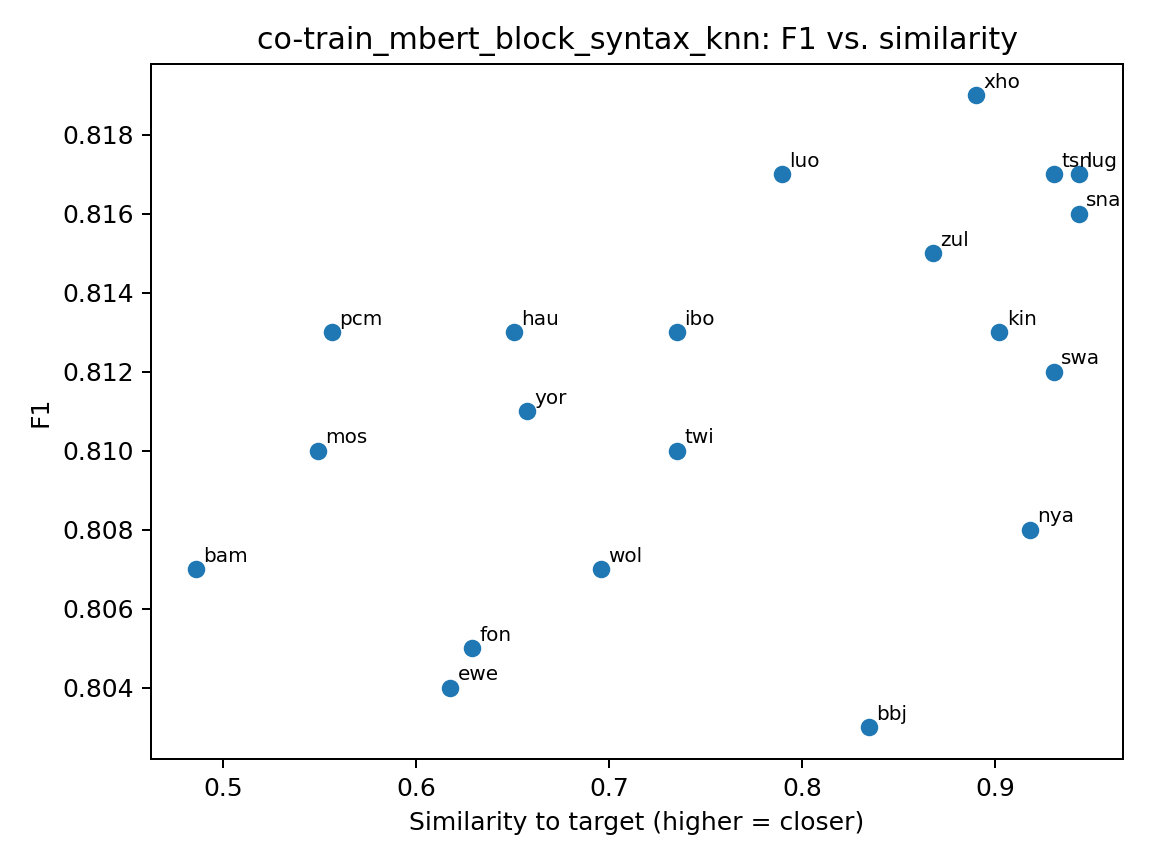
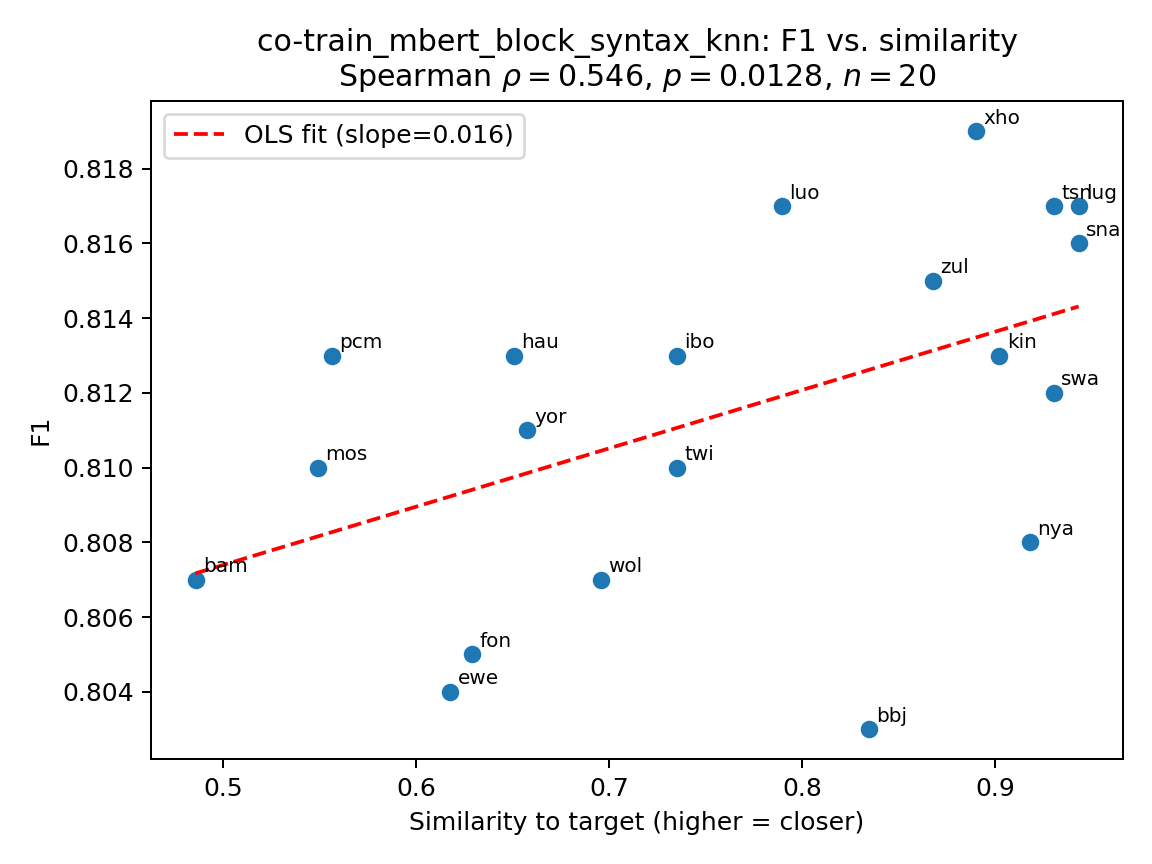
Add regression line to URIEL

diff --git a/rq2_train_scripts/Typological/URIEL_lang2vec/typology_pipeline.py b/rq2_train_scripts/Typological/URIEL_lang2vec/typology_pipeline.py
@@ -136,16 +136,46 @@ def plot_scatter(
     ylabel: str = "F1",
 ):
     merged = pd.concat([sim_ser.rename("sim"), f1_ser.rename("f1")], axis=1).dropna()
+
+    x = merged["sim"].values
+    y = merged["f1"].values
+
     plt.figure()
-    plt.scatter(merged["sim"].values, merged["f1"].values)
+    plt.scatter(x, y)
+
+    # Label each point with language code
     for lang, row in merged.iterrows():
-        plt.annotate(lang, (row["sim"], row["f1"]), fontsize=8, xytext=(3, 3), textcoords="offset points")
-    plt.title(title)
+        plt.annotate(
+            lang,
+            (row["sim"], row["f1"]),
+            fontsize=8,
+            xytext=(3, 3),
+            textcoords="offset points",
+        )
+
+    # --- Fit and plot linear regression line (OLS) ---
+    if len(x) >= 2:
+        a, b = np.polyfit(x, y, deg=1)  # slope, intercept
+        xs = np.linspace(x.min(), x.max(), 200)
+        ys = a * xs + b
+        plt.plot(xs, ys, linestyle="--", color="red", label=f"OLS fit (slope={a:.3f})")
+
+    # --- Spearman correlation for title ---
+    if len(x) >= 2:
+        from scipy.stats import spearmanr
+        rho, p = spearmanr(x, y)
+        n = len(x)
+        plt.title(f"{title}\nSpearman $\\rho={rho:.3f}$, $p={p:.4f}$, $n={n}$")
+        plt.legend()
+    else:
+        plt.title(title)
+
     plt.xlabel(xlabel)
     plt.ylabel(ylabel)
     plt.tight_layout()
     plt.savefig(out_path, dpi=180)
     plt.close()
+
 
 
 def load_f1_csv(path: str) -> pd.DataFrame:
